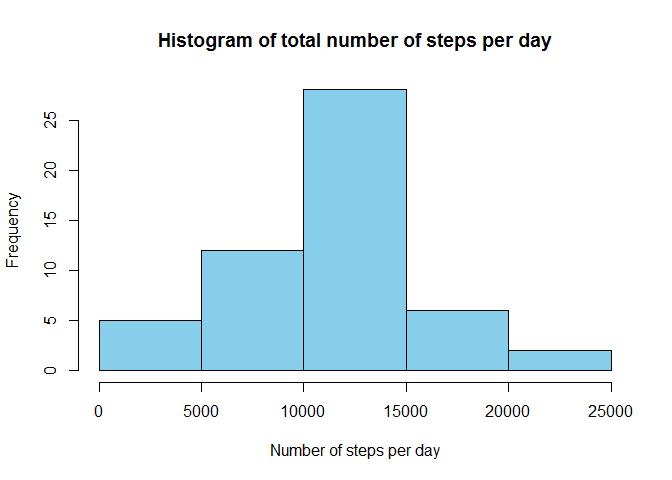
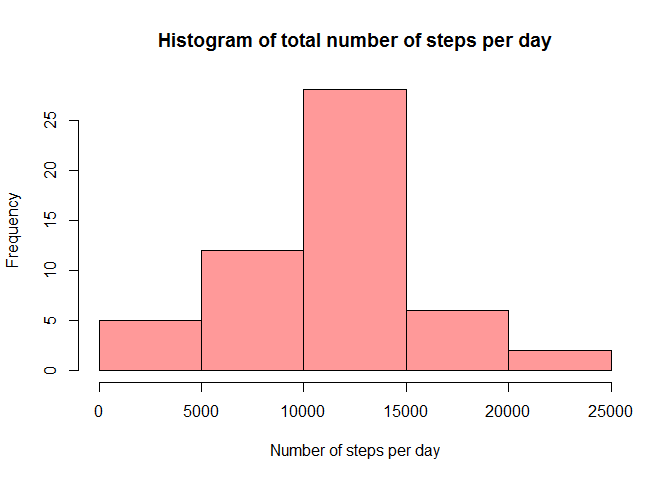
changed color

Changed region(s): [[0.125, 0.1875, 0.9062, 0.7812]]

diff --git a/PA1_template.html b/PA1_template.html
@@ -79,8 +79,8 @@ data &lt;- transform(data, date = as.Date(date))</code></pre>
 <pre class="r"><code>dataNoNa &lt;- subset(data, complete.cases(data))
 stepsPerDay &lt;- aggregate(steps ~ date, dataNoNa, sum)
 hist(stepsPerDay$steps, main=&quot;Histogram of total number of steps per day&quot;,
-     xlab=&quot;Number of steps per day&quot;, col=&quot;skyblue&quot;)</code></pre>
[1 lines of base64/hex data omitted]
+     xlab=&quot;Number of steps per day&quot;, col=scales::alpha(&quot;red&quot;,0.4))</code></pre>
[1 lines of base64/hex data omitted]
 <p>The mean and median total number of steps taken per day are very close together.</p>
 <pre class="r"><code>summary(stepsPerDay$steps)[3:4]</code></pre>
 <pre><code>## Median   Mean 

diff --git a/PA1_template.md b/PA1_template.md
@@ -42,7 +42,7 @@ For the first part of the analysis we ignore missing values. Here's a histogram 
 dataNoNa <- subset(data, complete.cases(data))
 stepsPerDay <- aggregate(steps ~ date, dataNoNa, sum)
 hist(stepsPerDay$steps, main="Histogram of total number of steps per day",
-     xlab="Number of steps per day", col="skyblue")
+     xlab="Number of steps per day", col=scales::alpha("red",0.4))
 ```
 
 ![](PA1_template_files/figure-html/unnamed-chunk-4-1.png) 
